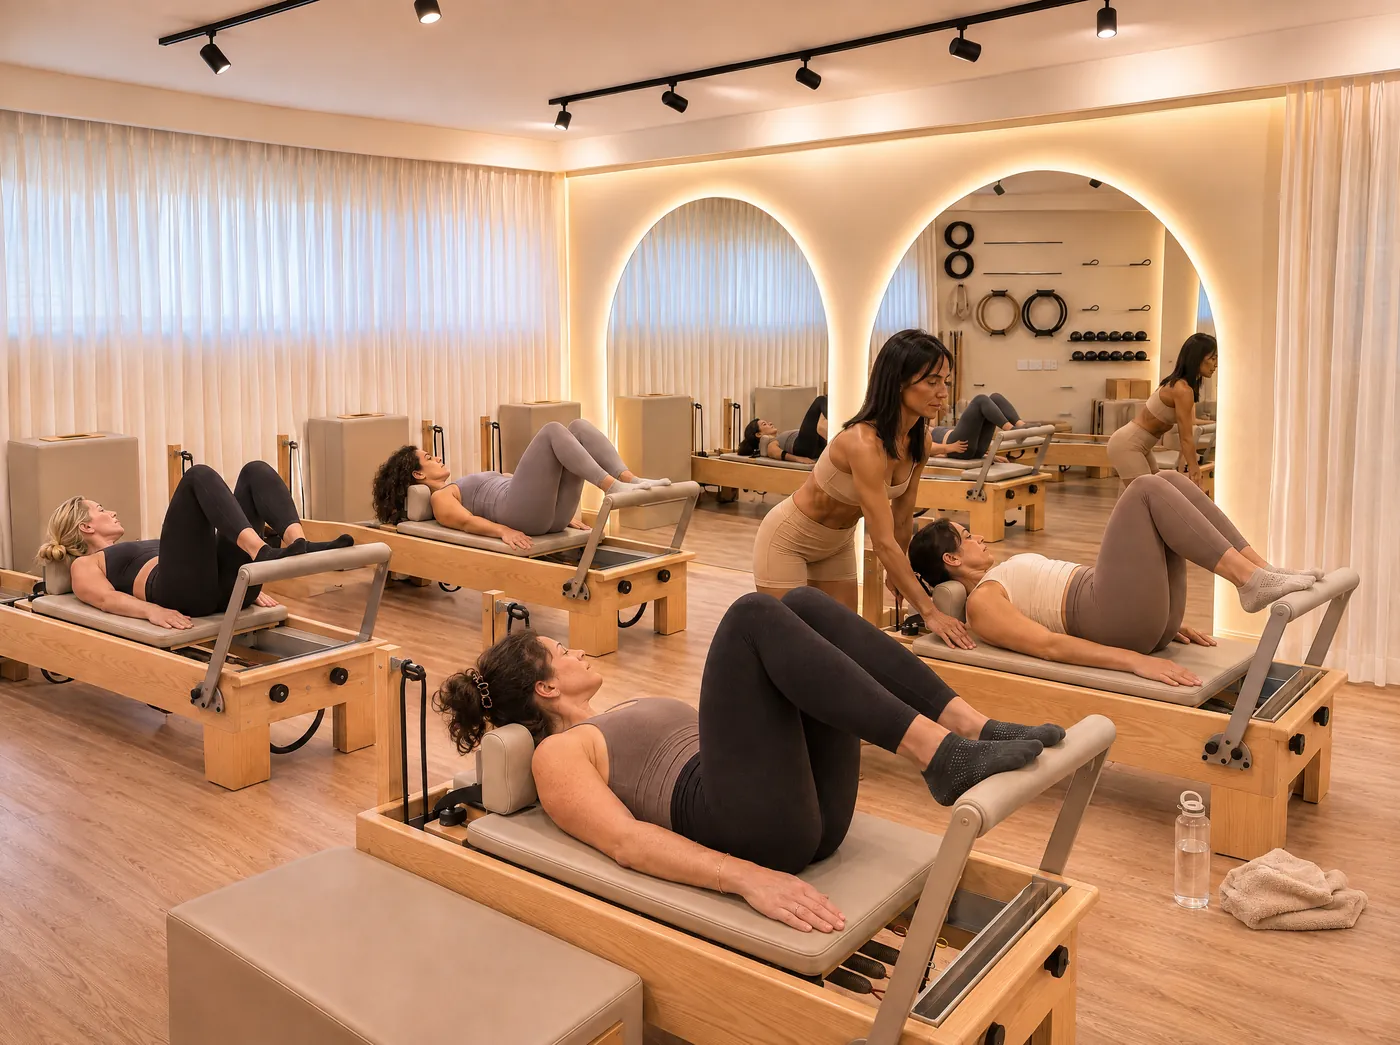
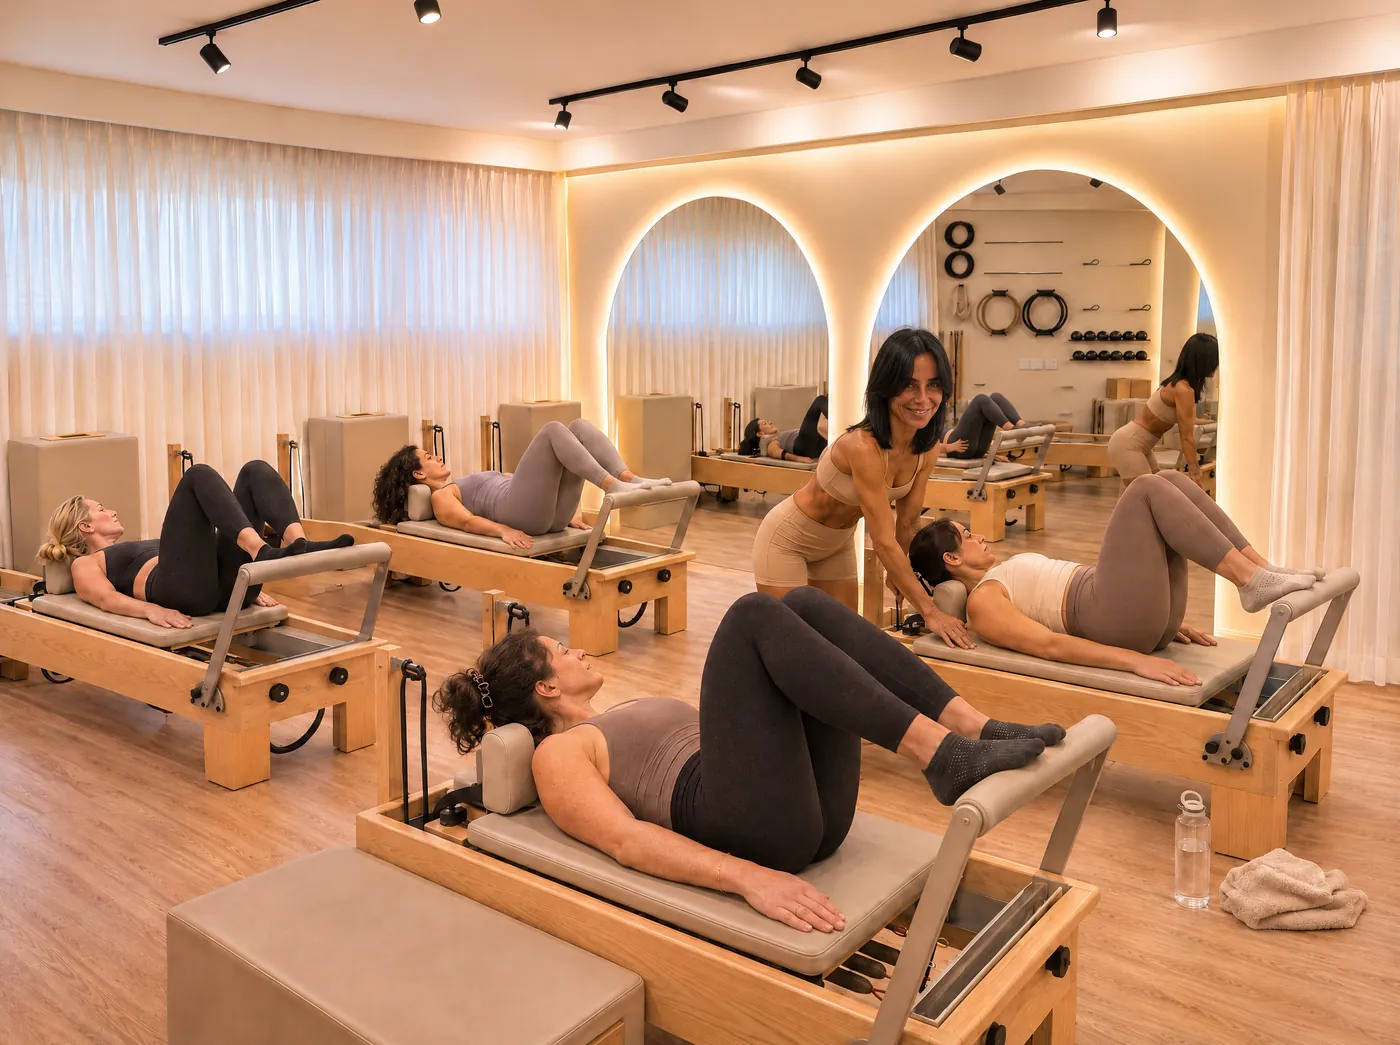
Orit's real face in every class picture and a cleaned-up founder portrait on About
The instructor in all eight class pictures now matches Orit's new photo, with open
shoulders. Her About portrait is that photo on a plain cream background with even
light and the sand-beige top.

Claude-Session: https://claude.ai/code/session_01SBeE7XAcgofszuJYkKcSgz

diff --git a/src/config/team.ts b/src/config/team.ts
@@ -23,7 +23,7 @@ export const founder: Person = {
     "אורית היא אמא לארבעה, יזמת ובעלת עסקים, ומדריכת פילאטיס שהתאהבה בשיטה הרבה לפני שהפכה אותה למקצוע. היא קוראת בלי הפסקה על בריאות, תנועה וכושר, ומביאה לסטודיו את מה שהיא מאמינה בו בבית: עקביות, תשומת לב וחום. את re:set היא הקימה כדי ליצור חדר קטן ואישי, שבו כל אחת מקבלת יחס מלא ויוצאת חזקה ורגועה יותר.",
   bioEn:
     "Orit is a mother of four, a multi-business owner, and a Pilates instructor who fell in love with the method long before she made it her work. An avid reader of everything health and fitness, she brings to the studio what she believes in at home: consistency, attention and warmth. She founded re:set to create a small, personal room where every woman gets full attention and leaves stronger and calmer.",
-  portrait: "/assets/orit.webp", // owner-supplied photo, cropped and enlarged locally
+  portrait: "/assets/orit.webp", // owner-supplied photo (17 Nov 2026): background cleaned to cream, light evened, sand-beige top
   approved: true,
 };
 
